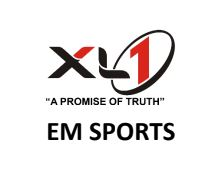
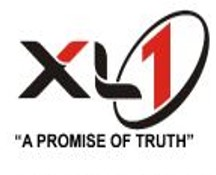
Sponsorsip Page Update

diff --git a/docs/sponsor.html b/docs/sponsor.html
@@ -321,10 +321,10 @@ if (document.location.search.match(/type=embed/gi)) {
               <p class="s-title"><b>Ace Salon and Spa</b></p>
               	<p>Styling Partner</p>
               </div>
-              <div class="col-md-4 portfolio-item"><a class="portfolio-link" href="https://byjus.com/?utm_source=Google&utm_medium=CPC&utm_campaign=K12-Byjus-Brand-Desktop-India&gclid=Cj0KCQiA-onjBRDSARIsAEZXcKbJBL59y9isp03IXuY97qgnlQ1l3V5ax5qQwnZQLf0pCACEoiwgzDwaAjA8EALw_wcB" target="_blank"><div class="helper"></div><img class="img-fluid sp-img" src="img/sponsors/byjus.png" alt="Times Of India" ></a>
+              <div class="col-md-4 portfolio-item"><a class="portfolio-link" href="https://www.facebook.com/goddys.in/" target="_blank"><div class="helper"></div><img class="img-fluid sp-img" src="img/sponsors/goddy.png" alt="Goddy's" ></a>
               <br>
-              <p class="s-title"><b>Byjus</b></p>
-              	<p>Education Partner</p>
+              <p class="s-title"><b>Goddy's</b></p>
+              	<p>Music Promotion Partner</p>
               </div>
               
               </div>
@@ -334,16 +334,25 @@ if (document.location.search.match(/type=embed/gi)) {
               	<p class="s-title"><b>Coal's Barbeque</b></p>
               	<p>Food Partner</p>
               </div>
-              <div class="col-md-4 portfolio-item"><a class="portfolio-link" href="http://emsportsworld.com/" target="_blank"><div class="helper"></div><img class="img-fluid sp-img" src="img/sponsors/em sports.JPG" alt="EM Sports" ></a>
+              <div class="col-md-4 portfolio-item"><a class="portfolio-link" href="http://xcell1.com" target="_blank"><div class="helper"></div><img class="img-fluid sp-img" src="img/sponsors/em sports.JPG" alt="Xcell1" ></a>
               <br>
-              <p class="s-title"><b>EM Sports</b></p>
-              	<p>EDM Partner</p>
+              <p class="s-title"><b>Xcell1</b></p>
+              	<p>Fitness Partner</p>
               </div>
               <div class="col-md-4 portfolio-item"><a class="portfolio-link" href="https://www.youtube.com/channel/UCNJcSUSzUeFm8W9P7UUlSeQ" target="_blank"><div class="helper"></div><img class="img-fluid sp-img" src="img/sponsors/the viral fever.png" alt="The Viral Fever" ></a>
               <br>
               <p class="s-title"><b>The Viral Fever</b></p>
               	<p>Entertainment Partner</p>
               </div>
+              
+              </div>
+              <div class="col-md-12">
+              	<div class="col-md-4 portfolio-item"><a class="portfolio-link" href="https://www.phoenixtour.in" target="_blank"><div class="helper"></div><img class="img-fluid sp-img" src="img/sponsors/phoneix.jpeg" alt="Phoenix Tour" ></a>
+              	<br>
+              	<p class="s-title"><b>Phoenix Tour</b></p>
+              	<p>Travel Partner</p>
+              </div>
+              
               
               </div>
               </div>
